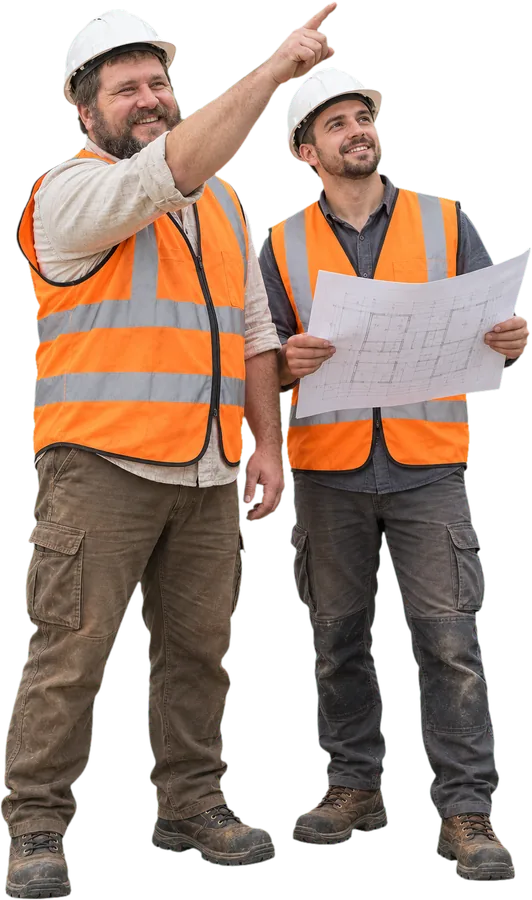
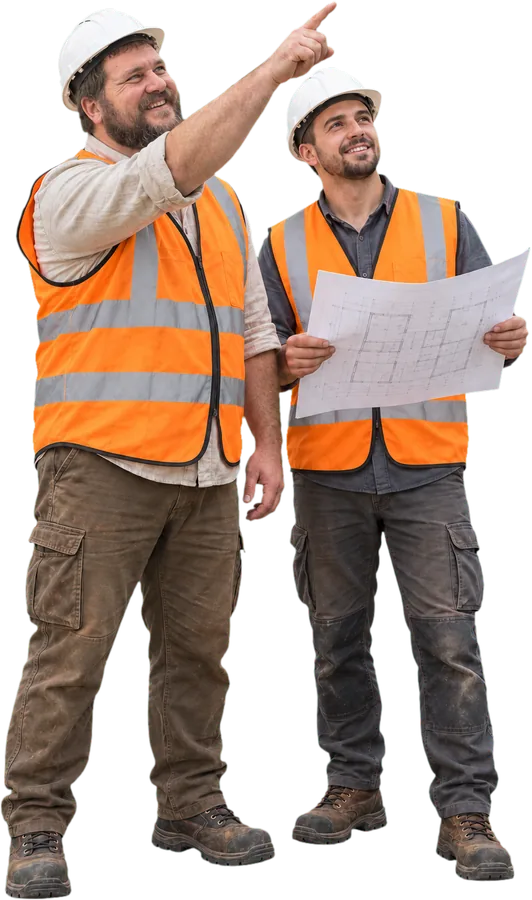
Sync z kamenictvi-web 151c074

diff --git a/styl.css b/styl.css
@@ -523,11 +523,37 @@ html:has(body.snap) { scroll-snap-type: y mandatory; scroll-padding-top: 0; }
 
 /* Stavby: pas referenci, budova se pri najeti vysune (12. 10. 2026) */
 .stavby-refs { list-style: none; display: flex; gap: 14px; margin: 4px -24px 10px; padding: 22px 24px 24px; scroll-padding-left: 24px; overflow-x: auto; scroll-snap-type: x mandatory; }
-.stavby-refs li { position: relative; flex: 0 0 clamp(150px, 18vw, 220px); aspect-ratio: 4 / 3; scroll-snap-align: start; transition: transform .35s cubic-bezier(.2,.8,.2,1.2), box-shadow .35s; z-index: 0; }
-.stavby-refs img { width: 100%; height: 100%; object-fit: cover; display: block; }
-.stavby-refs span { position: absolute; left: 0; right: 0; bottom: 0; padding: 18px 8px 6px; font-size: 12px; color: #fff; background: linear-gradient(transparent, rgba(0,0,0,.65)); }
-.stavby-refs li:hover, .stavby-refs li:focus-within, .stavby-refs li.is-on { transform: scale(1.12) translateY(-4px); box-shadow: 0 18px 40px rgba(0,0,0,.55); z-index: 2; }
-@media (prefers-reduced-motion: reduce) { .stavby-refs li { transition: none; } }
+.stavby-refs li { position: relative; flex: 0 0 clamp(150px, 18vw, 220px); aspect-ratio: 4 / 3; scroll-snap-align: start; overflow: hidden; outline: none; transform: perspective(600px) rotateX(var(--rx, 0deg)) rotateY(var(--ry, 0deg)); transition: transform .35s cubic-bezier(.2,.8,.2,1.2), box-shadow .35s; z-index: 0; cursor: pointer; }
+.stavby-refs img { width: 100%; height: 100%; object-fit: cover; display: block; transition: transform .6s ease; }
+.stavby-refs span { position: absolute; left: 0; right: 0; bottom: 0; padding: 18px 8px 6px; font-size: 12px; line-height: 1.25; color: #fff; background: linear-gradient(transparent, rgba(0,0,0,.7)); z-index: 2; }
+.stavby-refs li:hover, .stavby-refs li:focus-visible, .stavby-refs li.is-on { transform: perspective(600px) rotateX(var(--rx, 0deg)) rotateY(var(--ry, 0deg)) scale(1.12) translateY(-4px); box-shadow: 0 18px 40px rgba(0,0,0,.55); z-index: 3; }
+.stavby-refs li.is-tilt { transition: transform .08s linear, box-shadow .35s; }
+.stavby-refs li:hover img, .stavby-refs li.is-on img { transform: scale(1.06); }
+/* Vtipne vizualizace pri najeti (12. 10. 2026): metro projede, opona, jerab spusti blok, zvonek, kamen po schodech */
+.stavby-refs .fx { position: absolute; inset: 0; pointer-events: none; z-index: 1; font-style: normal; }
+.stavby-refs .fx b { position: absolute; display: block; opacity: 0; }
+.fx-metro .fx b { left: 0; bottom: 30%; width: 75%; height: 17%; border-radius: 4px 40% 40% 4px / 4px 60% 60% 4px; background: repeating-linear-gradient(90deg, #f3c300 0 12%, #1d2b3a 12% 19%) top / 100% 55% no-repeat, #f3c300; box-shadow: -30px 0 0 -6px rgba(255,255,255,.35), -60px 0 0 -9px rgba(255,255,255,.2); }
+.fx-metro:hover .fx b, .fx-metro:focus-visible .fx b, .fx-metro.is-on .fx b { animation: fx-metro 1.3s cubic-bezier(.6,0,.4,1) forwards; }
+@keyframes fx-metro { 0% { opacity: 1; transform: translateX(-110%); } 100% { opacity: 1; transform: translateX(150%); } }
+.fx-opona .fx b { top: 0; bottom: 0; width: 52%; background: repeating-linear-gradient(90deg, #8c1420 0 9px, #b31f2c 9px 18px); box-shadow: inset 0 -10px 18px rgba(0,0,0,.4); }
+.fx-opona .fx b:first-child { left: 0; transform-origin: left; }
+.fx-opona .fx b:last-child { right: 0; transform-origin: right; }
+.fx-opona .fx::after { content: ""; position: absolute; inset: 0; background: radial-gradient(circle at 50% 38%, rgba(255,230,160,.55), transparent 45%); opacity: 0; }
+.fx-opona:hover .fx b, .fx-opona:focus-visible .fx b, .fx-opona.is-on .fx b { animation: fx-opona 1.4s ease forwards; }
+.fx-opona:hover .fx::after, .fx-opona:focus-visible .fx::after, .fx-opona.is-on .fx::after { animation: fx-reflektor 1.4s ease forwards; }
+@keyframes fx-opona { 0% { opacity: 1; transform: scaleX(1); } 35% { opacity: 1; transform: scaleX(1); } 100% { opacity: 1; transform: scaleX(.08); } }
+@keyframes fx-reflektor { 0%, 40% { opacity: 0; } 70% { opacity: 1; } 100% { opacity: .6; } }
+.fx-jerab .fx b { left: 38%; top: 0; width: 24%; height: 16%; background: linear-gradient(135deg, #e6dccb, #b8ab95); border-radius: 2px; box-shadow: 0 4px 8px rgba(0,0,0,.4); }
+.fx-jerab .fx b::before { content: ""; position: absolute; left: 50%; bottom: 100%; width: 2px; height: 300px; background: #222; transform: translateX(-50%); }
+.fx-jerab:hover .fx b, .fx-jerab:focus-visible .fx b, .fx-jerab.is-on .fx b { animation: fx-jerab 1.5s cubic-bezier(.3,0,.3,1) forwards; }
+@keyframes fx-jerab { 0% { opacity: 1; transform: translateY(-120%) rotate(-6deg); } 60% { opacity: 1; transform: translateY(260%) rotate(4deg); } 75% { transform: translateY(240%) rotate(-2deg); } 100% { opacity: 1; transform: translateY(255%) rotate(0); } }
+.fx-cink .fx b { left: 50%; top: 40%; padding: 4px 10px; border-radius: 99px; background: rgba(255,255,255,.92); color: #222; font-size: 14px; font-weight: 700; white-space: nowrap; transform: translate(-50%, -50%); }
+.fx-cink:hover .fx b, .fx-cink:focus-visible .fx b, .fx-cink.is-on .fx b { animation: fx-cink .9s cubic-bezier(.3,1.6,.5,1) forwards; }
+@keyframes fx-cink { 0% { opacity: 0; transform: translate(-50%, -50%) scale(.2) rotate(-20deg); } 40% { opacity: 1; transform: translate(-50%, -50%) scale(1.25) rotate(8deg); } 55% { transform: translate(-50%, -50%) scale(1) rotate(-6deg); } 70% { transform: translate(-50%, -50%) rotate(4deg); } 100% { opacity: 1; transform: translate(-50%, -50%) rotate(0); } }
+.fx-kulicka .fx b { left: 4%; top: 6%; width: 14%; aspect-ratio: 1; border-radius: 50%; background: radial-gradient(circle at 35% 35%, #f2eee6, #8d867a 70%); box-shadow: 0 3px 6px rgba(0,0,0,.5); }
+.fx-kulicka:hover .fx b, .fx-kulicka:focus-visible .fx b, .fx-kulicka.is-on .fx b { animation: fx-kulicka 1.6s linear forwards; }
+@keyframes fx-kulicka { 0% { opacity: 1; transform: translate(0, 0) rotate(0); } 15% { transform: translate(60%, -40%) rotate(90deg); } 25% { transform: translate(120%, 80%) rotate(180deg); } 40% { transform: translate(180%, 40%) rotate(270deg); } 50% { transform: translate(240%, 160%) rotate(360deg); } 65% { transform: translate(300%, 120%) rotate(450deg); } 75% { transform: translate(360%, 240%) rotate(540deg); } 90% { transform: translate(420%, 210%) rotate(600deg); } 100% { opacity: 1; transform: translate(480%, 300%) rotate(680deg); } }
+@media (prefers-reduced-motion: reduce) { .stavby-refs li, .stavby-refs img { transition: none; } .stavby-refs .fx { display: none; } }
 /* Postava kamenika pri scrollu (postava.js, 12. 10. 2026) */
 .postava { position: fixed; right: max(16px, 3vw); bottom: 0; height: calc(min(64vh, 580px) * var(--vyska, 1)); aspect-ratio: var(--pomer, .6); z-index: 40; pointer-events: none; visibility: hidden; }
 .postava.is-ven, .postava.is-dopad { visibility: visible; }
@@ -569,3 +595,7 @@ html:has(body.snap) { scroll-snap-type: y mandatory; scroll-padding-top: 0; }
   #stavby .stavby-refs { margin-right: min(26vw, 340px); }
   #obce .ba, #obce .ba-pary { margin-left: 0; margin-right: min(26vw, 340px); } /* postava stoji vpravo vedle slideru */
 }
+/* Stavby: Spirala v cervankach (12. 10. 2026), slabsi zatemneni at obloha zustane barevna */
+#stavby .panel__bg img { object-position: 60% 40%; }
+#stavby .panel__bg::after { background: linear-gradient(90deg, rgba(20,20,20,.62), rgba(20,20,20,.18) 50%, rgba(20,20,20,0) 70%), linear-gradient(180deg, rgba(0,0,0,0) 65%, rgba(20,20,20,.85)); }
+#stavby .panel__inner h2, #stavby .panel__inner > p { text-shadow: 0 2px 14px rgba(0,0,0,.7); }

diff --git a/index.html b/index.html
@@ -51,7 +51,7 @@
   <link rel="preconnect" href="https://fonts.googleapis.com">
   <link rel="preconnect" href="https://fonts.gstatic.com" crossorigin>
   <link href="https://fonts.googleapis.com/css2?family=Instrument+Serif:ital@0;1&family=Manrope:wght@400;500;600;700&display=swap" rel="stylesheet">
-  <link rel="stylesheet" href="/styl.css?v=1012f">
+  <link rel="stylesheet" href="/styl.css?v=1012g">
 </head>
 <body class="snap">
 
@@ -123,12 +123,12 @@
 </section>
 
 <section class="panel panel--photo" id="stavby">
-  <div class="panel__bg"><video class="panel__video" muted loop playsinline preload="metadata" poster="/obrazky/stavby-pruchod-poster.webp" aria-hidden="true"><source src="/obrazky/stavby-pruchod.mp4" type="video/mp4"></video></div>
+  <div class="panel__bg"><img src="/obrazky/stavby-spirala-cervanky.webp" srcset="/obrazky/stavby-spirala-cervanky-900.webp 900w, /obrazky/stavby-spirala-cervanky.webp 1672w" sizes="100vw" alt="" loading="lazy" width="1672" height="941"></div>
   <div class="container panel__inner">
     <p class="label">03 — Stavební činnost</p>
     <h2>Kámen ve velkých stavbách</h2>
     <p>Schodiště s drážkami, dlažby, chodníky, obklady a kamenné zdivo. Pro hotely, divadla, školy i veřejný prostor.</p>
-    <ul class="stavby-refs"><li><img src="/obrazky/Rekonstrukce-metro-eskomoravsk-800.webp" alt="Stanice metra" loading="lazy" width="800" height="600"><span>Stanice metra</span></li><li><img src="/obrazky/realizace-divadlo-spirala-800.webp" alt="Divadlo" loading="lazy" width="800" height="600"><span>Divadlo</span></li><li><img src="/obrazky/realizace-nr7-namesti-republiky-800.webp" alt="Kancelářská budova" loading="lazy" width="800" height="600"><span>Kancelářská budova</span></li><li><img src="/obrazky/realizace-andaz-praha-800.webp" alt="Hotel" loading="lazy" width="800" height="600"><span>Hotel</span></li><li><img src="/obrazky/realizace-allure-schodiste-800.webp" alt="Schodiště" loading="lazy" width="800" height="600"><span>Schodiště</span></li></ul>
+    <ul class="stavby-refs"><li class="fx-metro" tabindex="0"><img src="/obrazky/Rekonstrukce-metro-eskomoravsk-800.webp" alt="Stanice metra Českomoravská" loading="lazy" width="800" height="600"><i class="fx" aria-hidden="true"><b></b></i><span>Stanice metra Českomoravská</span></li><li class="fx-opona" tabindex="0"><img src="/obrazky/realizace-divadlo-spirala-800.webp" alt="Divadlo Nová Spirála" loading="lazy" width="800" height="600"><i class="fx" aria-hidden="true"><b></b><b></b></i><span>Divadlo Nová Spirála</span></li><li class="fx-jerab" tabindex="0"><img src="/obrazky/realizace-nr7-namesti-republiky-800.webp" alt="NR7" loading="lazy" width="800" height="600"><i class="fx" aria-hidden="true"><b></b></i><span>NR7</span></li><li class="fx-cink" tabindex="0"><img src="/obrazky/realizace-andaz-praha-800.webp" alt="Hotel Andaz" loading="lazy" width="800" height="600"><i class="fx" aria-hidden="true"><b>🛎 cink!</b></i><span>Hotel Andaz</span></li><li class="fx-kulicka" tabindex="0"><img src="/obrazky/realizace-allure-schodiste-800.webp" alt="Schodiště" loading="lazy" width="800" height="600"><i class="fx" aria-hidden="true"><b></b></i><span>Schodiště</span></li></ul>
     <div class="hero__actions"><a class="btn btn--gold" href="/sluzby/stavebni-cinnost/">Stavební činnost</a></div>
   </div>
 </section>
@@ -272,7 +272,7 @@
 
 <div class="mbar" aria-label="Rychlý kontakt"><a class="mbar__call" href="tel:+420602108793">Zavolat</a><a class="mbar__form" href="/#kontakt">Poptávka</a></div>
 
-<script src="/skript.js?v=1012f"></script>
-<script src="/postava.js?v=1012f" defer></script>
+<script src="/skript.js?v=1012g"></script>
+<script src="/postava.js?v=1012g" defer></script>
 </body>
 </html>

diff --git a/skript.js b/skript.js
@@ -409,3 +409,14 @@
     li.addEventListener("click",function(){var on=li.classList.contains("is-on");document.querySelectorAll(".stavby-refs li.is-on").forEach(function(x){x.classList.remove("is-on");});if(!on)li.classList.add("is-on");});
   });
 })();
+/* Stavby: karta se nakloni za mysi (12. 10. 2026) */
+(function(){
+  if (window.matchMedia("(prefers-reduced-motion: reduce)").matches || !window.matchMedia("(hover: hover)").matches) return;
+  document.querySelectorAll(".stavby-refs li").forEach(function(li){
+    li.addEventListener("mousemove", function(e){
+      var r = li.getBoundingClientRect(), x = (e.clientX - r.left) / r.width - .5, y = (e.clientY - r.top) / r.height - .5;
+      li.classList.add("is-tilt"); li.style.setProperty("--ry", (x * 18).toFixed(1) + "deg"); li.style.setProperty("--rx", (-y * 14).toFixed(1) + "deg");
+    });
+    li.addEventListener("mouseleave", function(){ li.classList.remove("is-tilt"); li.style.removeProperty("--rx"); li.style.removeProperty("--ry"); });
+  });
+})();

diff --git a/postava.js b/postava.js
@@ -4,7 +4,7 @@
   var POSTAVY = {
     nahrobky: { src: "/obrazky/postava-hroby.webp", w: 663, h: 900, vyska: 0.8 },
     interier: { src: "/obrazky/postava-interier.webp", w: 514, h: 900 },
-    stavby: { src: "/obrazky/postava-stavby.webp", w: 532, h: 900, flip: true, helma: { x: 0.23, y: 0.04 } },
+    stavby: { src: "/obrazky/postava-stavby.webp", w: 532, h: 900, flip: true, helma: { x: 0.21, y: 0.03 } },
     obce: { src: "/obrazky/postava-obce.webp", w: 489, h: 900 }
   };
   var ids = Object.keys(POSTAVY).filter(function(id){ return document.getElementById(id); });
